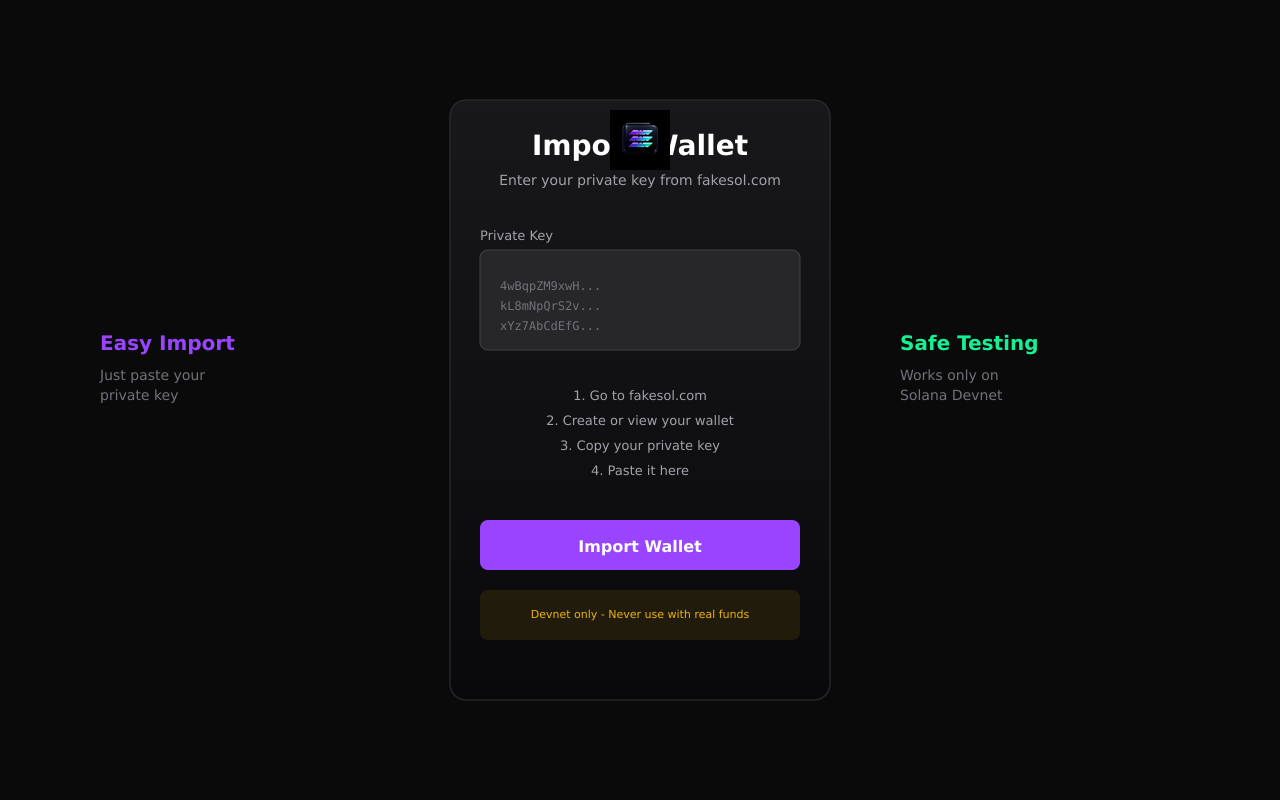
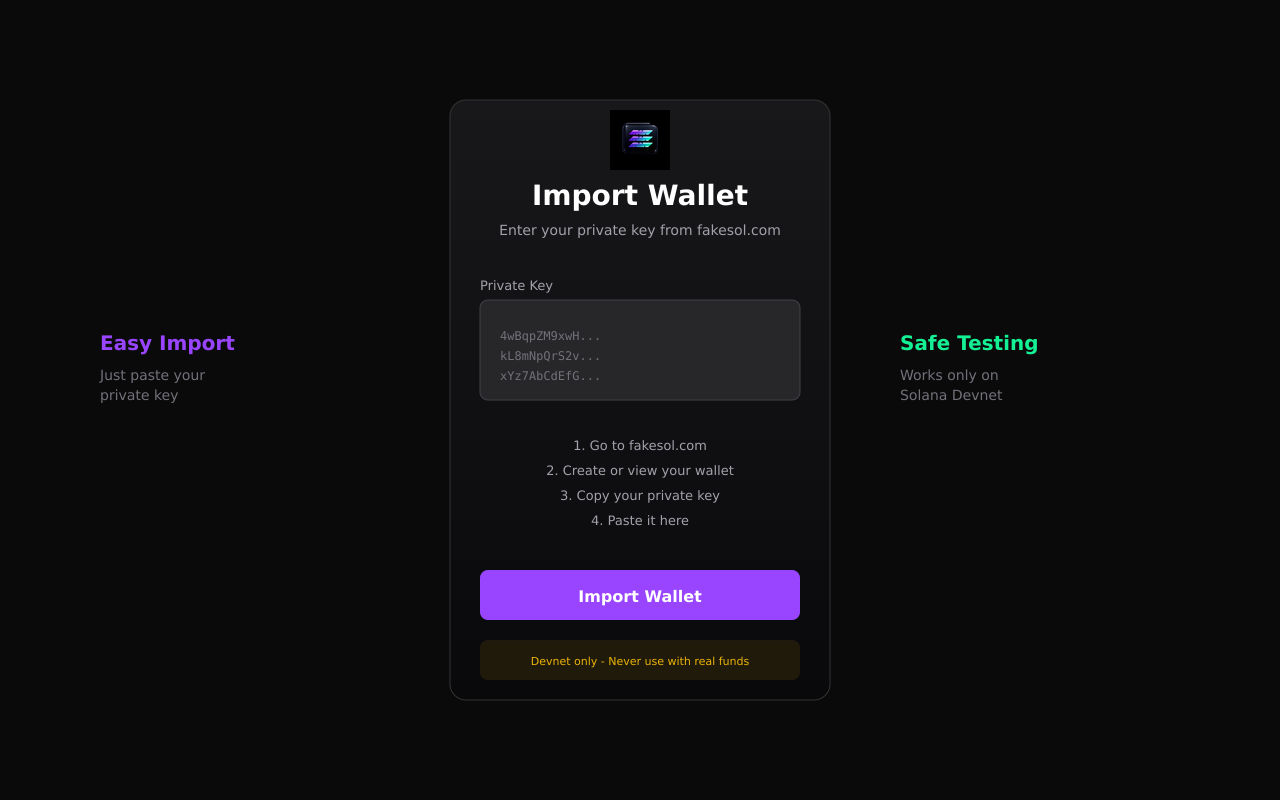
Fix OAuth env detection, update extension provider for devnet, and update store assets

Changed region(s): [[0.375, 0.3438, 0.625, 0.7812], [0.375, 0.1562, 0.5938, 0.3125], [0.4062, 0.8125, 0.5938, 0.8438]]

diff --git a/extension/scripts/generate-store-assets.ts b/extension/scripts/generate-store-assets.ts
@@ -225,29 +225,29 @@ async function createScreenshot2() {
       <rect x="450" y="100" width="380" height="600" rx="16" fill="url(#popupBg2)" stroke="#333" stroke-width="1"/>
       
       <!-- Popup header -->
-      <text x="640" y="155" text-anchor="middle" fill="white" font-family="Arial, sans-serif" font-weight="bold" font-size="28">Import Wallet</text>
-      <text x="640" y="185" text-anchor="middle" fill="#a1a1aa" font-family="Arial, sans-serif" font-size="14">Enter your private key from fakesol.com</text>
+      <text x="640" y="205" text-anchor="middle" fill="white" font-family="Arial, sans-serif" font-weight="bold" font-size="28">Import Wallet</text>
+      <text x="640" y="235" text-anchor="middle" fill="#a1a1aa" font-family="Arial, sans-serif" font-size="14">Enter your private key from fakesol.com</text>
       
       <!-- Private key input -->
-      <text x="480" y="240" fill="#a1a1aa" font-family="Arial, sans-serif" font-size="13">Private Key</text>
-      <rect x="480" y="250" width="320" height="100" rx="8" fill="#27272a" stroke="#3f3f46" stroke-width="1"/>
-      <text x="500" y="290" fill="#71717a" font-family="monospace" font-size="12">4wBqpZM9xwH...</text>
-      <text x="500" y="310" fill="#71717a" font-family="monospace" font-size="12">kL8mNpQrS2v...</text>
-      <text x="500" y="330" fill="#71717a" font-family="monospace" font-size="12">xYz7AbCdEfG...</text>
+      <text x="480" y="290" fill="#a1a1aa" font-family="Arial, sans-serif" font-size="13">Private Key</text>
+      <rect x="480" y="300" width="320" height="100" rx="8" fill="#27272a" stroke="#3f3f46" stroke-width="1"/>
+      <text x="500" y="340" fill="#71717a" font-family="monospace" font-size="12">4wBqpZM9xwH...</text>
+      <text x="500" y="360" fill="#71717a" font-family="monospace" font-size="12">kL8mNpQrS2v...</text>
+      <text x="500" y="380" fill="#71717a" font-family="monospace" font-size="12">xYz7AbCdEfG...</text>
       
       <!-- Instructions -->
-      <text x="640" y="400" text-anchor="middle" fill="#a1a1aa" font-family="Arial, sans-serif" font-size="13">1. Go to fakesol.com</text>
-      <text x="640" y="425" text-anchor="middle" fill="#a1a1aa" font-family="Arial, sans-serif" font-size="13">2. Create or view your wallet</text>
-      <text x="640" y="450" text-anchor="middle" fill="#a1a1aa" font-family="Arial, sans-serif" font-size="13">3. Copy your private key</text>
-      <text x="640" y="475" text-anchor="middle" fill="#a1a1aa" font-family="Arial, sans-serif" font-size="13">4. Paste it here</text>
+      <text x="640" y="450" text-anchor="middle" fill="#a1a1aa" font-family="Arial, sans-serif" font-size="13">1. Go to fakesol.com</text>
+      <text x="640" y="475" text-anchor="middle" fill="#a1a1aa" font-family="Arial, sans-serif" font-size="13">2. Create or view your wallet</text>
+      <text x="640" y="500" text-anchor="middle" fill="#a1a1aa" font-family="Arial, sans-serif" font-size="13">3. Copy your private key</text>
+      <text x="640" y="525" text-anchor="middle" fill="#a1a1aa" font-family="Arial, sans-serif" font-size="13">4. Paste it here</text>
       
       <!-- Import button -->
-      <rect x="480" y="520" width="320" height="50" rx="8" fill="#9945FF"/>
-      <text x="640" y="552" text-anchor="middle" fill="white" font-family="Arial, sans-serif" font-size="16" font-weight="bold">Import Wallet</text>
+      <rect x="480" y="570" width="320" height="50" rx="8" fill="#9945FF"/>
+      <text x="640" y="602" text-anchor="middle" fill="white" font-family="Arial, sans-serif" font-size="16" font-weight="bold">Import Wallet</text>
       
       <!-- Security note -->
-      <rect x="480" y="590" width="320" height="50" rx="8" fill="#eab308" fill-opacity="0.1"/>
-      <text x="640" y="618" text-anchor="middle" fill="#eab308" font-family="Arial, sans-serif" font-size="11">Devnet only - Never use with real funds</text>
+      <rect x="480" y="640" width="320" height="40" rx="8" fill="#eab308" fill-opacity="0.1"/>
+      <text x="640" y="665" text-anchor="middle" fill="#eab308" font-family="Arial, sans-serif" font-size="11">Devnet only - Never use with real funds</text>
       
       <!-- Side callouts -->
       <text x="100" y="350" fill="#9945FF" font-family="Arial, sans-serif" font-size="20" font-weight="bold">Easy Import</text>

diff --git a/extension/src/inpage/index.ts b/extension/src/inpage/index.ts
@@ -1,11 +1,12 @@
 import EventEmitter from 'eventemitter3';
-import { PublicKey, Transaction, VersionedTransaction } from '@solana/web3.js';
+import { PublicKey, Transaction, VersionedTransaction, Connection } from '@solana/web3.js';
 import bs58 from 'bs58';
 import { Buffer } from 'buffer';
 
 class FakeSolProvider extends EventEmitter {
   publicKey: PublicKey | null = null;
   isConnected: boolean = false;
+  isPhantom: boolean = true;
 
   constructor() {
     super();
@@ -13,6 +14,7 @@ class FakeSolProvider extends EventEmitter {
     this.disconnect = this.disconnect.bind(this);
     this.signTransaction = this.signTransaction.bind(this);
     this.signAllTransactions = this.signAllTransactions.bind(this);
+    this.signAndSendTransaction = this.signAndSendTransaction.bind(this);
     this.signMessage = this.signMessage.bind(this);
   }
 
@@ -36,8 +38,16 @@ class FakeSolProvider extends EventEmitter {
   }
 
   async signTransaction<T extends Transaction | VersionedTransaction>(transaction: T): Promise<T> {
+    let messageToSign: Uint8Array;
+
+    if (transaction instanceof VersionedTransaction) {
+      messageToSign = transaction.message.serialize();
+    } else {
+      messageToSign = (transaction as Transaction).serializeMessage();
+    }
+
     const response = await this._request('signTransaction', {
-      message: bs58.encode(transaction.serialize({ requireAllSignatures: false, verifySignatures: false })),
+      message: bs58.encode(messageToSign),
     });
 
     const signature = bs58.decode(response.signature);
@@ -57,6 +67,19 @@ class FakeSolProvider extends EventEmitter {
       signedTransactions.push(await this.signTransaction(tx));
     }
     return signedTransactions;
+  }
+
+  async signAndSendTransaction<T extends Transaction | VersionedTransaction>(
+    transaction: T,
+    options?: any
+  ): Promise<{ signature: string }> {
+    const signedTx = await this.signTransaction(transaction);
+    const connection = new Connection('https://api.devnet.solana.com');
+    
+    const rawTransaction = signedTx.serialize();
+    const signature = await connection.sendRawTransaction(rawTransaction, options);
+    
+    return { signature };
   }
 
   async signMessage(message: Uint8Array, display?: string): Promise<{ signature: Uint8Array; publicKey: PublicKey }> {

diff --git a/src/pages/Register.tsx b/src/pages/Register.tsx
@@ -5,7 +5,8 @@ import { FiAlertCircle, FiCheck, FiUser, FiGithub } from 'react-icons/fi';
 import { FcGoogle } from 'react-icons/fc';
 import { Logo } from '../components/Logo';
 
-const API_URL = import.meta.env.VITE_API_URL || 'http://localhost:3001';
+// Use runtime env if available, otherwise build time env, otherwise default based on mode
+const API_URL = (window as any).__ENV__?.VITE_API_URL || import.meta.env.VITE_API_URL || (import.meta.env.PROD ? '' : 'http://localhost:3001');
 
 export function Register() {
   const navigate = useNavigate();
@@ -15,14 +16,14 @@ export function Register() {
   const [password, setPassword] = useState('');
   const [confirmPassword, setConfirmPassword] = useState('');
   const [walletName, setWalletName] = useState('');
-  const [oauthProviders, setOauthProviders] = useState<{ google: boolean; github: boolean }>({ google: true, github: true });
+  const [oauthProviders, setOauthProviders] = useState<{ google: boolean; github: boolean }>({ google: false, github: false });
 
   useEffect(() => {
     // Check available OAuth providers
     fetch(`${API_URL}/api/oauth/providers`)
       .then(res => res.json())
       .then(data => setOauthProviders(data))
-      .catch(() => {});
+      .catch(() => setOauthProviders({ google: false, github: false }));
   }, []);
 
   const passwordRequirements = [

diff --git a/src/pages/Login.tsx b/src/pages/Login.tsx
@@ -5,7 +5,8 @@ import { FiAlertCircle, FiUser, FiGithub } from 'react-icons/fi';
 import { FcGoogle } from 'react-icons/fc';
 import { Logo } from '../components/Logo';
 
-const API_URL = import.meta.env.VITE_API_URL || 'http://localhost:3001';
+// Use runtime env if available, otherwise build time env, otherwise default based on mode
+const API_URL = (window as any).__ENV__?.VITE_API_URL || import.meta.env.VITE_API_URL || (import.meta.env.PROD ? '' : 'http://localhost:3001');
 
 export function Login() {
   const navigate = useNavigate();
@@ -13,14 +14,14 @@ export function Login() {
   
   const [email, setEmail] = useState('');
   const [password, setPassword] = useState('');
-  const [oauthProviders, setOauthProviders] = useState<{ google: boolean; github: boolean }>({ google: true, github: true });
+  const [oauthProviders, setOauthProviders] = useState<{ google: boolean; github: boolean }>({ google: false, github: false });
 
   useEffect(() => {
     // Check available OAuth providers
     fetch(`${API_URL}/api/oauth/providers`)
       .then(res => res.json())
       .then(data => setOauthProviders(data))
-      .catch(() => {});
+      .catch(() => setOauthProviders({ google: false, github: false }));
   }, []);
 
   const handleSubmit = async (e: React.FormEvent) => {

diff --git a/src/lib/api.ts b/src/lib/api.ts
@@ -1,8 +1,11 @@
 // API client for FakeSOL backend
 // In production, API is served from same origin. In dev, use localhost:3001
-const API_BASE = import.meta.env.VITE_API_URL 
-  ? `${import.meta.env.VITE_API_URL}/api`
-  : '/api';
+const getApiBase = () => {
+  const envUrl = (window as any).__ENV__?.VITE_API_URL || import.meta.env.VITE_API_URL;
+  return envUrl ? `${envUrl}/api` : '/api';
+};
+
+const API_BASE = getApiBase();
 
 interface ApiResponse<T> {
   data?: T;

diff --git a/server/src/routes/oauth.ts b/server/src/routes/oauth.ts
@@ -325,7 +325,7 @@ if (githubEnabled) {
 router.get('/providers', (_req: Request, res: Response) => {
   res.json({
     google: googleEnabled,
-    github: !!(process.env.GITHUB_CLIENT_ID && process.env.GITHUB_CLIENT_SECRET),
+    github: githubEnabled,
   });
 });
 
